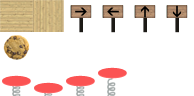
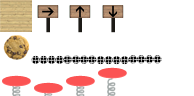
- Fixed issue where pusher objects would only pushif they played animations when a collision occured. - Added a conveyor belt tile to the Wood theme. - Added a 'isMusic' parameter to sound.playSfx.

diff --git a/sound.py b/sound.py
@@ -7,12 +7,12 @@ class Sound(object):
     def __init__(self):
         mixer.init()
         self.sfx = {
-            0:  ['', mixer.Channel(1), 0, 0],
-            1:  ['', mixer.Channel(2), 0, 0],
-            2:  ['', mixer.Channel(3), 0, 0],
-            3:  ['', mixer.Channel(4), 0, 0]
+            0:  ['', mixer.Channel(1), 0, 0, 0],
+            1:  ['', mixer.Channel(2), 0, 0, 0],
+            2:  ['', mixer.Channel(3), 0, 0, 0],
+            3:  ['', mixer.Channel(4), 0, 0, 0]
         }
-
+        
     def update(self):
         for i in range(len(self.sfx)):
             if not self.sfx[i][1].get_busy():
@@ -21,14 +21,28 @@ class Sound(object):
                     self.sfx[i][1].play(self.sfx[i][2], self.sfx[i][3])
                 if self.sfx[i][3] > 0: self.sfx[i][3] -= 1
 
-
-    def playSfx(self, file, loop):
+            if not self.sfx[i][1].get_busy():
+                if self.sfx[i][3] > 0 or self.sfx[i][3] == -1:
+                    self.sfx[i][1].stop()
+                    self.sfx[i][1].play(self.sfx[i][2], self.sfx[i][3])
+                if self.sfx[i][3] > 0: self.sfx[i][3] -= 1                                
+          
+                
+    def playSfx(self, file, loop, isMusic = 0):
         is_playing = 0
 
         for i in range(len(self.sfx)):
             if self.sfx[i][1].get_busy():
                 if self.sfx[i][0] == file: is_playing = 1
-            else: self.sfx[i][0] == ""
+                elif not file == self.sfx[i][0] and self.sfx[i][4] and isMusic: 
+                    self.sfx[i][1].stop()
+                    self.sfx[i][0] = ""
+                    self.sfx[i][4] = 0
+                    
+            else: 
+                self.sfx[i][0] = ""                     
+                self.sfx[i][4] = 0
+                
 
         if not is_playing:
             for i in range(len(self.sfx)):
@@ -36,18 +50,19 @@ class Sound(object):
                     self.sfx[i][0] = file
                     self.sfx[i][2] = mixer.Sound(file)
                     self.sfx[i][3] = loop
+                    self.sfx[i][4] = isMusic
                     self.sfx[i][1].play(self.sfx[i][2], loop)
                     break
 
     def stopSfx(self, channel):
         self.sfx[channel][1].stop()
 
-    def stopAllSfx(self):
+    def stopAllSfx(self, exceptMusic = 1):
         for i in range(len(self.sfx)):
-            self.sfx[i][0] = ""
-            self.sfx[i][3] = 0
-            if self.sfx[i][1].get_busy():
+            if self.sfx[i][1].get_busy() and ((self.sfx[i][4] and not exceptMusic) or (exceptMusic and not self.sfx[i][4])):
                 self.sfx[i][1].stop()
+                self.sfx[i][0] = ""
+                self.sfx[i][3] = 0
 
     def stopSfxFile(self, file):
         for i in range(len(self.sfx)):

diff --git a/main.py b/main.py
@@ -101,7 +101,7 @@ class Game(object):
             if self.state == 3: self.state = 0
             
             # Stop all sounds
-            #self.sound.stopAllSfx()
+            self.sound.stopAllSfx()
 
             # Try to load a function for the current state
             try: options[self.state]()
@@ -146,7 +146,7 @@ class Game(object):
         size = self.screen.get_size()
 
         # Stop all sounds
-        #self.sound.stopAllSfx() 
+        self.sound.stopAllSfx() 
         
         # Load Level
         try:
@@ -253,8 +253,10 @@ class Game(object):
            
             if not dbox:
                 # If the game has displayed the "Get Ready!" - "Go!" message.            
-                if not transition_status: getready = self.hud.getReady(size, self.screen)
-                else: getready = 0
+                if not transition_status: 
+                    getready = self.hud.getReady(size, self.screen)
+                else: 
+                    getready = 0
 
                 if not getready:
                     # Update Chomp Movement...only when level is playable(i.e. not beaten or lost)
@@ -290,8 +292,19 @@ class Game(object):
                         self.chomp.speed = 0
                         self.chomp.falling = 0
                         if self.transition.type == 0:
-                            self.dlogbox.setMessageBox(size,"TIME: " + str(round( time / 1000.0,2 )) , "Pwned", [['Retry',self.levelTransition],['Next Level',self.nextLevel]] )
+                            gametime = round( time / 1000.0,2 )
+                            aranktime = float(self.level.parser.get(self.level.packMaps[self.level.current_map], "arank"))
 
+                            if aranktime and gametime <= aranktime:
+                                self.dlogbox.setMessageBox(size,"A+! - TIME: " + str(round( time / 1000.0,2 )) , "Pwned!!!", [['Retry',self.levelTransition],['Next Level',self.nextLevel]] )
+                            else:
+                                self.dlogbox.setMessageBox(size,"TIME: " + str(round( time / 1000.0,2 )) , "Winner!", [['Retry',self.levelTransition],['Next Level',self.nextLevel]] )
+
+                # If get ready message still up reset timers.
+                else:
+                    start_time = pygame.time.get_ticks()                
+                    time = 0
+                                
             # If closed by clicking X return to map select.
             elif dbox == -1: 
                 self.setState(2)

diff --git a/gamemap.py b/gamemap.py
@@ -42,7 +42,7 @@ class Gamemap(object):
         # Load Music
         music = self.themeparser.get("music","file")
         if music: 
-            self.sound.playSfx("sfx/" + music, 1)
+            self.sound.playSfx("sfx/" + music, 1, 1)
         
         # Get size of this maps tiles
         self.tilesize = [int(self.themeparser.get("tiles","tile_width")), int(self.themeparser.get("tiles","tile_height"))]
@@ -285,17 +285,19 @@ class Gamemap(object):
                             for y in range(len(self.collide_animation)):
                                 if self.collide_animation[y][0] == x:
 
-                                    if value[1]: chomp.falling = int(value[1]) * -1
-                                    if value[0] and chomp.speed < int(value[0]): chomp.speed = int(value[0])
-
                                     # Play collision SFX if provided.
                                     if i['collide_sfx']:
                                         sound.playSfx("sfx/" + i['collide_sfx'], 0)
                                             
-                        # Play collision SFX if provided[This one plays when there is no animation].
+                        # Play collision SFX if provided[This one plays when there is no collide animation].
                         elif i['collide_sfx']:
                             sound.playSfx("sfx/" + i['collide_sfx'], 0)                                            
 
+                        # Do the pushing.
+                        if value[1]: 
+                            if (value[1] * -1) > 0 and not chomp.falling < -5: chomp.falling = int(value[1]) * -1
+                        if value[0] and abs(chomp.speed) < abs(int(value[0])): chomp.speed = int(value[0])                            
+                            
                     # If player hits the end of the level...
                     elif i['type'] == "goal":
                         self.state = 1     # Set level state to win.

diff --git a/menu.py b/menu.py
@@ -60,7 +60,7 @@ class Menu(object):
         title_logo_offset_b = self.tl_rect_a.x + size[0]
  
         # Play Menu Music
-        self.sound.playSfx("sfx/danosongs.com-helium-hues.ogg", -1)
+        self.sound.playSfx("sfx/danosongs.com-helium-hues.ogg", -1, 1)
         
         while not done:
             # Set frame rate to 30.
@@ -215,7 +215,7 @@ class Menu(object):
         self.resizeTitle(size, screen)
         
         # Play Menu Music
-        self.sound.playSfx("sfx/danosongs.com-helium-hues.ogg", -1)
+        self.sound.playSfx("sfx/danosongs.com-helium-hues.ogg", -1, 1)
         
         while not done:
             # Set frame rate to 30.
@@ -330,6 +330,5 @@ class Menu(object):
                            
             # Go ahead and update the screen with what we've drawn.
             pygame.display.flip()     
-        
-        self.sound.stopAllSfx()                
+                       
         return returnVal

diff --git a/iniget.py b/iniget.py
@@ -18,6 +18,13 @@ class iniGet(object):
         except:
             return 0
 
+    def getFloat(self, group, item):
+        try:
+            return self.parser.getFloat(group, item)
+        except:
+            return 0
+            
+            
     def getBool(self, group, item):
         try:
             return self.parser.getboolean(group, item)
